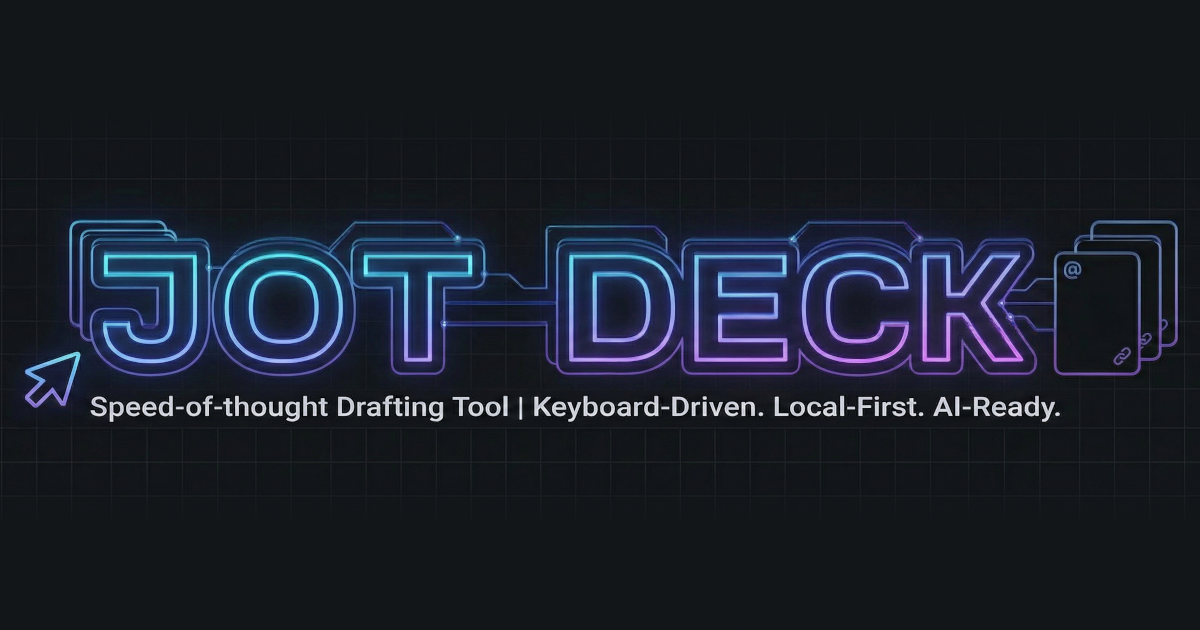
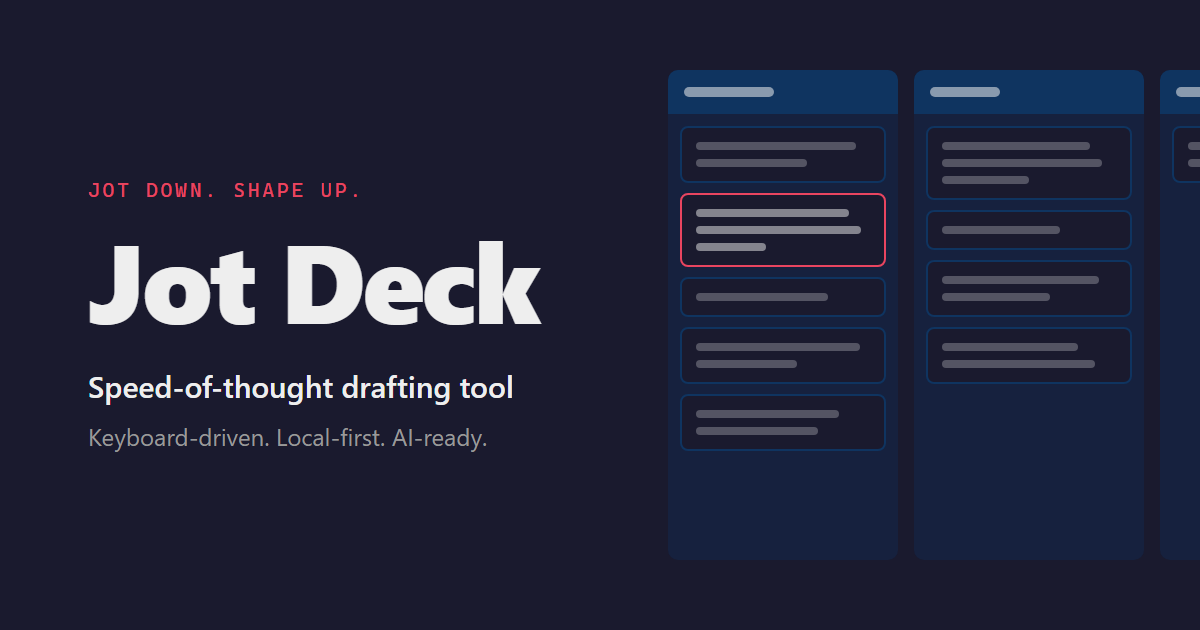
Refresh LP copy: startup-speed claim and OGP image (#122)
* Reword the startup-speed claim on the LP and README

Lead with the experience instead of a hard number, and state the measured
figure as an approximation (about half a second to the board on a warm start).

* Redraw the OGP image in the app's colors with a simple, flat look

Replaces the neon wordmark with the app's dark theme (#1a1a2e / #e94560), a
plain wordmark and a simplified board. Copy is unchanged. The HTML source and
render script live in packages/web/design/, and og:image gets ?v=2 so social
caches refetch it.

---------

diff --git a/packages/web/design/ogp.html b/packages/web/design/ogp.html
@@ -1,0 +1,141 @@
+<!doctype html>
+<html>
+<head>
+<meta charset="utf-8" />
+<style>
+  /* App dark theme tokens (packages/app/src/lib/styles/theme.css) */
+  :root {
+    --bg-primary: #1a1a2e;
+    --bg-secondary: #16213e;
+    --bg-tertiary: #0f3460;
+    --text: #eee;
+    --text-muted: #999;
+    --accent: #e94560;
+  }
+  * { margin: 0; padding: 0; box-sizing: border-box; }
+  html, body { width: 1200px; height: 630px; overflow: hidden; }
+  body {
+    background: var(--bg-primary);
+    color: var(--text);
+    font-family: "Segoe UI", system-ui, -apple-system, sans-serif;
+    position: relative;
+  }
+  .copy {
+    position: absolute;
+    left: 88px;
+    top: 0;
+    bottom: 0;
+    width: 560px;
+    display: flex;
+    flex-direction: column;
+    justify-content: center;
+  }
+  .eyebrow {
+    font-family: "Cascadia Mono", Consolas, ui-monospace, monospace;
+    font-size: 20px;
+    letter-spacing: 0.14em;
+    text-transform: uppercase;
+    color: var(--accent);
+    margin-bottom: 20px;
+  }
+  h1 {
+    font-size: 112px;
+    font-weight: 800;
+    letter-spacing: -0.03em;
+    line-height: 1;
+    margin-bottom: 32px;
+  }
+  .lead {
+    font-size: 30px;
+    font-weight: 600;
+    margin-bottom: 14px;
+  }
+  .sub {
+    font-size: 24px;
+    color: var(--text-muted);
+  }
+
+  /* Simplified board: columns of cards, one focused card */
+  .board {
+    position: absolute;
+    left: 668px;
+    top: 70px;
+    display: flex;
+    gap: 16px;
+  }
+  .column {
+    width: 230px;
+    height: 490px;
+    background: var(--bg-secondary);
+    border-radius: 10px;
+    overflow: hidden;
+  }
+  .column-header {
+    height: 44px;
+    background: var(--bg-tertiary);
+    display: flex;
+    align-items: center;
+    padding: 0 16px;
+  }
+  .column-header span {
+    display: block;
+    height: 10px;
+    border-radius: 5px;
+    background: rgba(238, 238, 238, 0.55);
+  }
+  .cards { padding: 12px; display: flex; flex-direction: column; gap: 10px; }
+  .card {
+    background: var(--bg-primary);
+    border: 2px solid var(--bg-tertiary);
+    border-radius: 8px;
+    padding: 14px;
+    display: flex;
+    flex-direction: column;
+    gap: 9px;
+  }
+  .card.focused { border-color: var(--accent); }
+  .line {
+    height: 8px;
+    border-radius: 4px;
+    background: rgba(238, 238, 238, 0.28);
+  }
+  .card.focused .line { background: rgba(238, 238, 238, 0.5); }
+</style>
+</head>
+<body>
+  <div class="copy">
+    <p class="eyebrow">Jot Down. Shape Up.</p>
+    <h1>Jot Deck</h1>
+    <p class="lead">Speed-of-thought drafting tool</p>
+    <p class="sub">Keyboard-driven. Local-first. AI-ready.</p>
+  </div>
+
+  <div class="board">
+    <div class="column">
+      <div class="column-header"><span style="width: 90px"></span></div>
+      <div class="cards">
+        <div class="card"><div class="line" style="width: 92%"></div><div class="line" style="width: 64%"></div></div>
+        <div class="card focused"><div class="line" style="width: 88%"></div><div class="line" style="width: 95%"></div><div class="line" style="width: 40%"></div></div>
+        <div class="card"><div class="line" style="width: 76%"></div></div>
+        <div class="card"><div class="line" style="width: 94%"></div><div class="line" style="width: 58%"></div></div>
+        <div class="card"><div class="line" style="width: 82%"></div><div class="line" style="width: 70%"></div></div>
+      </div>
+    </div>
+    <div class="column">
+      <div class="column-header"><span style="width: 70px"></span></div>
+      <div class="cards">
+        <div class="card"><div class="line" style="width: 85%"></div><div class="line" style="width: 92%"></div><div class="line" style="width: 50%"></div></div>
+        <div class="card"><div class="line" style="width: 68%"></div></div>
+        <div class="card"><div class="line" style="width: 90%"></div><div class="line" style="width: 62%"></div></div>
+        <div class="card"><div class="line" style="width: 78%"></div><div class="line" style="width: 88%"></div></div>
+      </div>
+    </div>
+    <div class="column">
+      <div class="column-header"><span style="width: 80px"></span></div>
+      <div class="cards">
+        <div class="card"><div class="line" style="width: 90%"></div><div class="line" style="width: 60%"></div></div>
+      </div>
+    </div>
+  </div>
+</body>
+</html>
